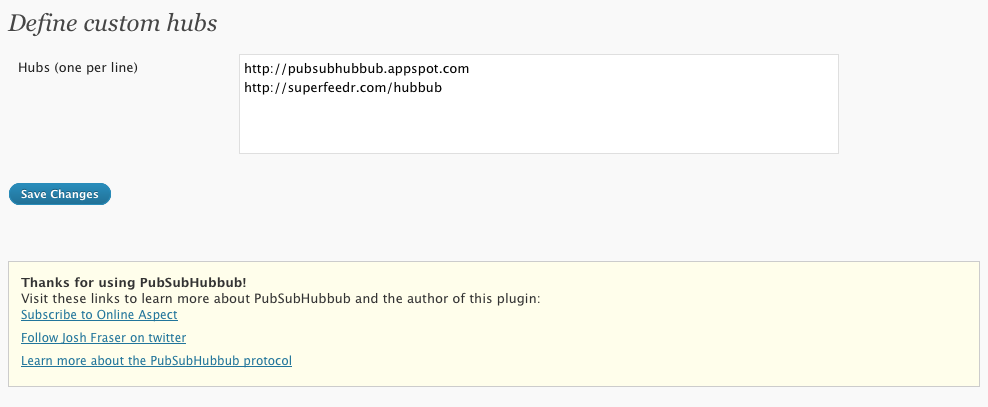
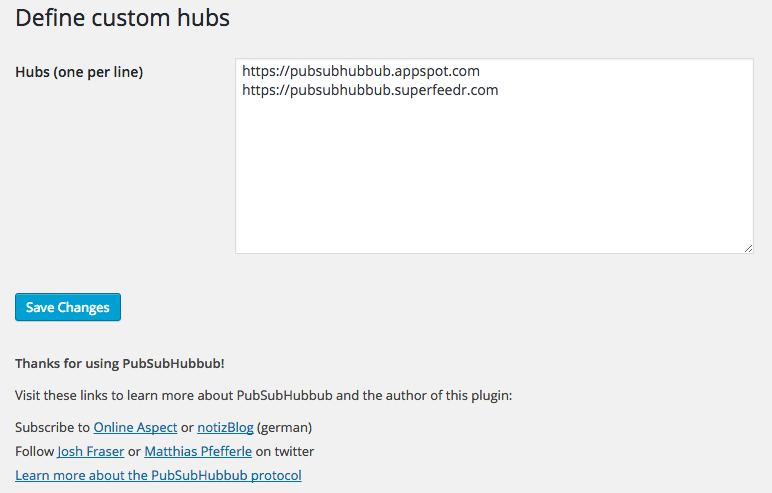
v1.7.2
* updated screenshot
* updated default PubSubHubbub hub URLs to HTTPS from HTTP
* updated some documentation URLs to use HTTPS
* added workaround for invalid screenshot URL generated by grunt-wp-readme-to-markdown

diff --git a/Gruntfile.js b/Gruntfile.js
@@ -6,6 +6,9 @@ module.exports = function(grunt) {
 					'readme.md': 'readme.txt'
 				},
 			},
+			options: {
+				screenshot_url: 'https://s.w.org/plugins/{plugin}/{screenshot}.png'
+			},
 		},
 		makepot: {
 			target: {

diff --git a/pubsubhubbub.php b/pubsubhubbub.php
@@ -3,10 +3,10 @@
 Plugin Name: PubSubHubbub
 Plugin URI: https://github.com/pubsubhubbub/
 Description: A better way to tell the world when your blog is updated.
-Version: 1.7.1
+Version: 1.7.2
 Author: Josh Fraser, Matthias Pfefferle
 Author Email: joshfraz@gmail.com
-Author URI: http://wordpress.org/plugins/pubsubhubbub/
+Author URI: https://wordpress.org/plugins/pubsubhubbub/
 Domain Path: /languages
 */
 
@@ -142,8 +142,8 @@ function pshb_get_pubsub_endpoints() {
 
 	// if no values have been set, revert to the defaults (pubsubhubbub on app engine & superfeedr)
 	if ( ! $endpoints ) {
-		$hub_urls[] = 'http://pubsubhubbub.appspot.com';
-		$hub_urls[] = 'http://pubsubhubbub.superfeedr.com';
+		$hub_urls[] = 'https://pubsubhubbub.appspot.com';
+		$hub_urls[] = 'https://pubsubhubbub.superfeedr.com';
 	}
 
 	// clean out any blank values
@@ -261,7 +261,7 @@ function pshb_query_var($vars) {
 add_filter( 'query_vars', 'pshb_query_var' );
 
 /**
- * adds link headers as defined in the curren v0.4 draft
+ * adds link headers as defined in the current v0.4 draft
  *
  * @link https://github.com/pubsubhubbub/PubSubHubbub/issues/2
  */

diff --git a/readme.md b/readme.md
@@ -3,7 +3,7 @@
 **Tags:** pubsubhubbub, webhooks, pubsub  
 **Requires at least:** 2.5  
 **Tested up to:** 4.3.1  
-**Stable tag:** 1.7.1  
+**Stable tag:** 1.7.2  
 
 A better way to tell the world when your blog is updated.
 
@@ -17,14 +17,14 @@ This plugin:
 * Supports multi-user installations (Wordpress MU)
 * Supports multiple hubs
 * Supports all of the feed formats used by WordPress, not just ATOM and RSS2
-* Supports latest spec ([Version 0.4](http://pubsubhubbub.github.io/PubSubHubbub/pubsubhubbub-core-0.4.html))
+* Supports latest spec ([Version 0.4](https://pubsubhubbub.github.io/PubSubHubbub/pubsubhubbub-core-0.4.html))
 * Announces which hubs you are using by adding `<link rel="hub" ...>` declarations to your template header and ATOM feed
 * Adds `<atom:link rel="hub" ...>` to your RSS feeds along with the necessary XMLNS declaration for RSS 0.92/1.0
 
 By default this plugin will ping the following hubs:
 
-* [Demo hub on Google App Engine](http://pubsubhubbub.appspot.com "Demo hub on Google App Engine")
-* [SuperFeedr](http://pubsubhubbub.superfeedr.com "SuperFeedr")
+* [Demo hub on Google App Engine](https://pubsubhubbub.appspot.com "Demo hub on Google App Engine")
+* [SuperFeedr](https://pubsubhubbub.superfeedr.com "SuperFeedr")
 
 Please contact me if you operate a hub that you would like to be included as a default option.
 
@@ -48,10 +48,16 @@ and [Matthias Pfefferle](http://pfefferle.org "Matthias Pfefferle") at [Notizblo
 ## Screenshots ##
 
 ### 1. The PubSubHubbub Settings page allows you to define which hubs you want to use ###
-![The PubSubHubbub Settings page allows you to define which hubs you want to use](http://s.wordpress.org/extend/plugins/pubsubhubbub/screenshot-1.png)
+![The PubSubHubbub Settings page allows you to define which hubs you want to use](https://s.w.org/plugins/pubsubhubbub/screenshot-1.png)
 
 
 ## Changelog ##
+
+### 1.7.2 ###
+* updated screenshot
+* updated default PubSubHubbub hub URLs to HTTPS from HTTP
+* updated some documentation URLs to use HTTPS
+* added workaround for invalid screenshot URL generated by grunt-wp-readme-to-markdown
 
 ### 1.7.1 ###
 * fixed some links
